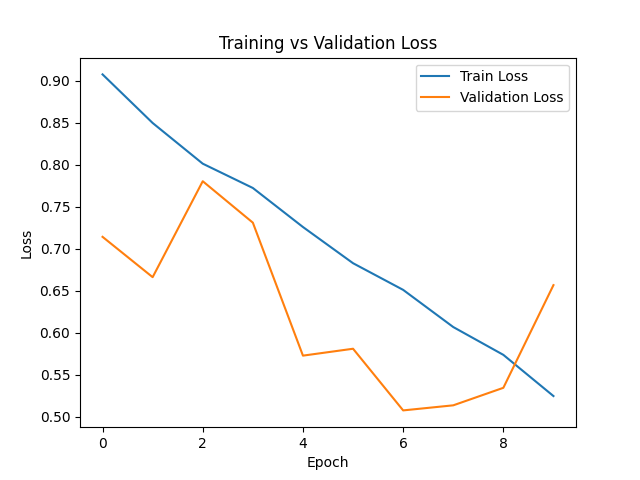
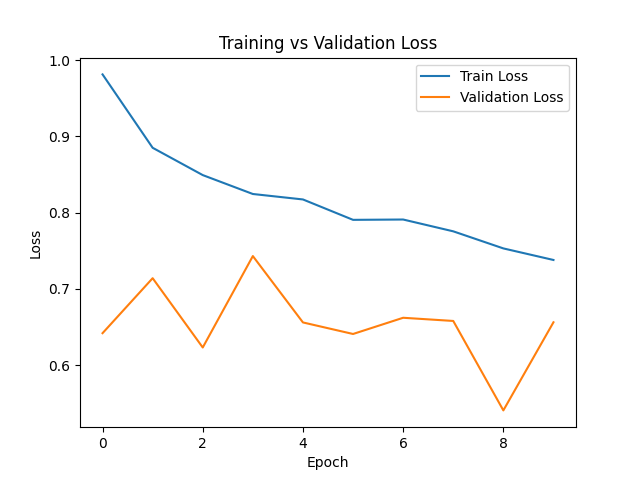
train/val png

diff --git a/gesture-swipe/train.py b/gesture-swipe/train.py
@@ -27,11 +27,11 @@ sample_weights = torch.tensor(sample_weights, dtype=torch.float32)
 
 sampler = WeightedRandomSampler(weights=sample_weights, num_samples=len(sample_weights), replacement=True)
 
-train_loader = DataLoader(train, batch_size=16, sampler=sampler)
-val_loader = DataLoader(val, batch_size=16)
+train_loader = DataLoader(train, batch_size=32, sampler=sampler)
+val_loader = DataLoader(val, batch_size=32)
 
 model = GestureCNN(num_classes=3).cuda()
-opt = torch.optim.Adam(model.parameters(), lr=5e-5)
+opt = torch.optim.Adam(model.parameters(), lr=1e-5)
 loss_fn = torch.nn.CrossEntropyLoss()
 
 train_accs = []